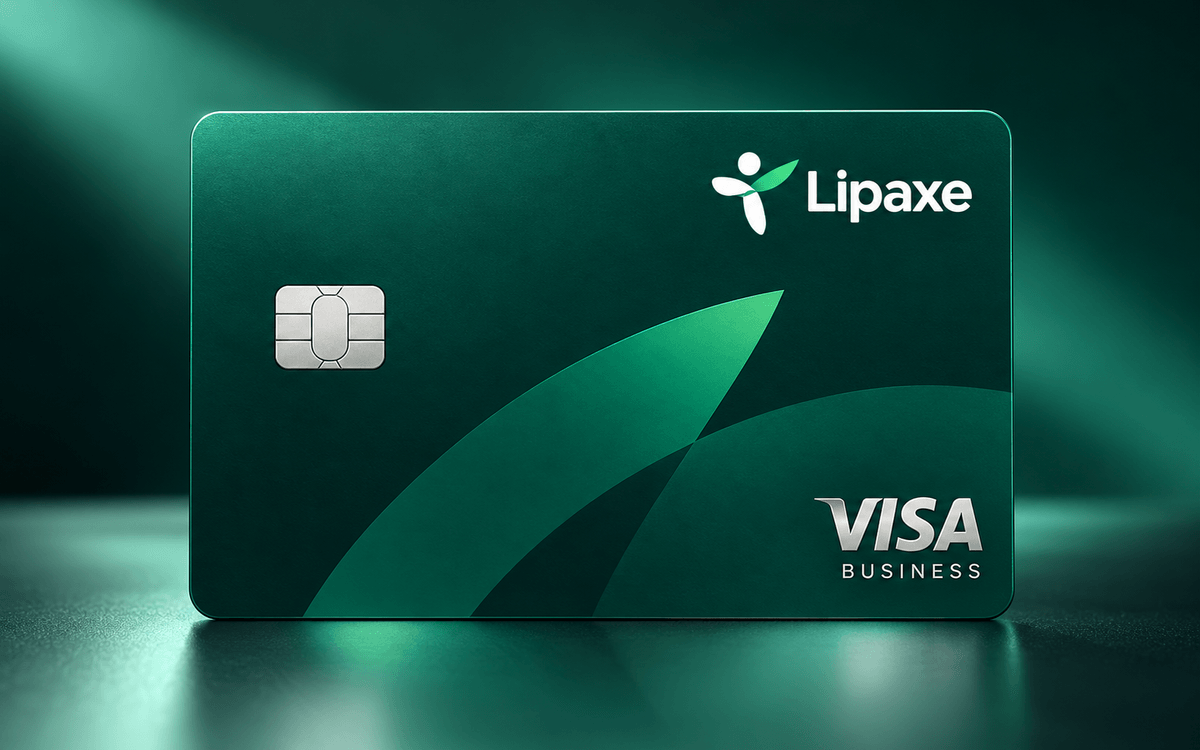
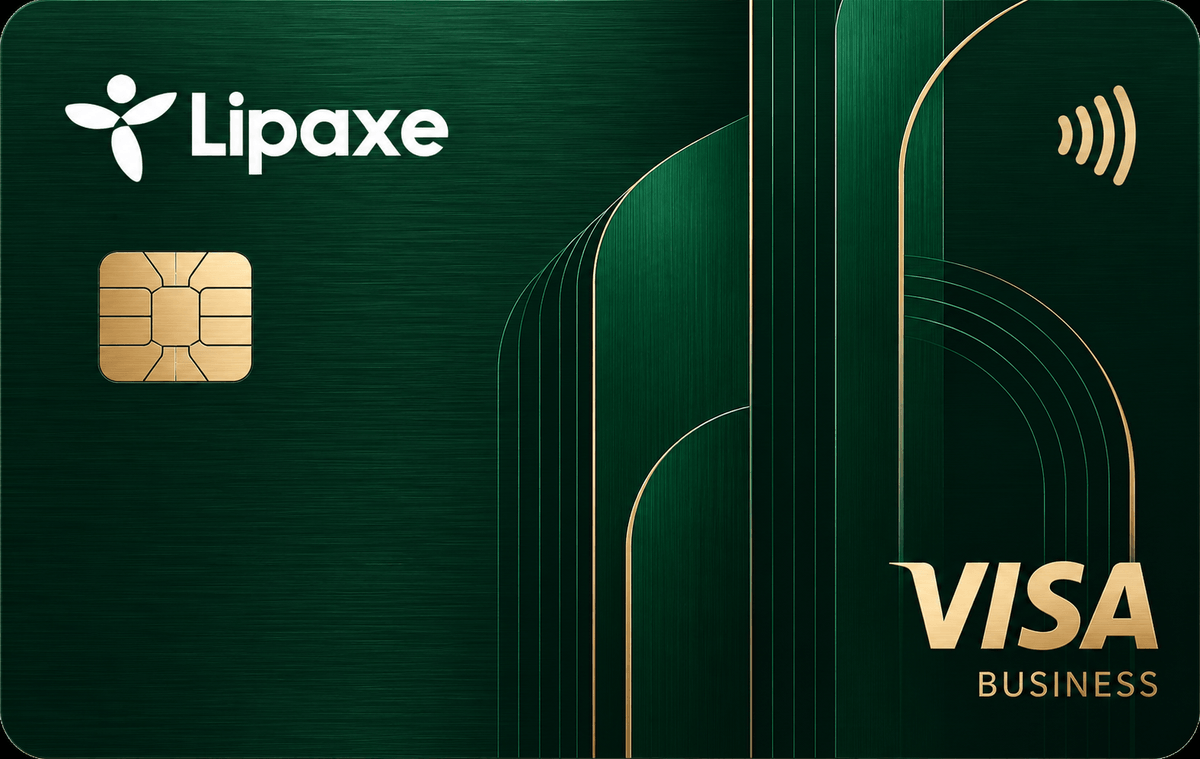
fix(cards): prefer issuer artwork and refresh offers

diff --git a/src/store/api/adapters.ts b/src/store/api/adapters.ts
@@ -406,7 +406,18 @@ export const normalizeUserCard = (payload: unknown) => {
     balance: asNumber(raw.balance),
     currency: asString(raw.currency, 'USD'),
     status,
-    image: firstText(raw.image, raw.card_image, raw.design_image, raw.preview_image),
+    image: firstText(
+      raw.image,
+      raw.image_url,
+      raw.card_image,
+      raw.card_design_image,
+      raw.design_image,
+      raw.preview_image,
+      (raw.virtual_card as UnknownRecord | undefined)?.image,
+      (raw.virtual_card as UnknownRecord | undefined)?.image_url,
+      (raw.virtual_card as UnknownRecord | undefined)?.card_image,
+      (raw.virtual_card as UnknownRecord | undefined)?.design_image,
+    ),
   };
 };
 

diff --git a/src/components/cards/CardArtwork.tsx b/src/components/cards/CardArtwork.tsx
@@ -50,8 +50,8 @@ export const CardArtwork = ({
   className?: string;
   muted?: boolean;
 }) => {
-  // The configured offer determines its presentation; provider images remain a fallback for other cards.
-  const imageSrc = offerArtwork(name) || resolveImageSrc(image);
+  // A purchased card must keep the design supplied by its issuer. Offer art is only a local fallback.
+  const imageSrc = resolveImageSrc(image) || offerArtwork(name);
 
   if (imageSrc) {
     return (
